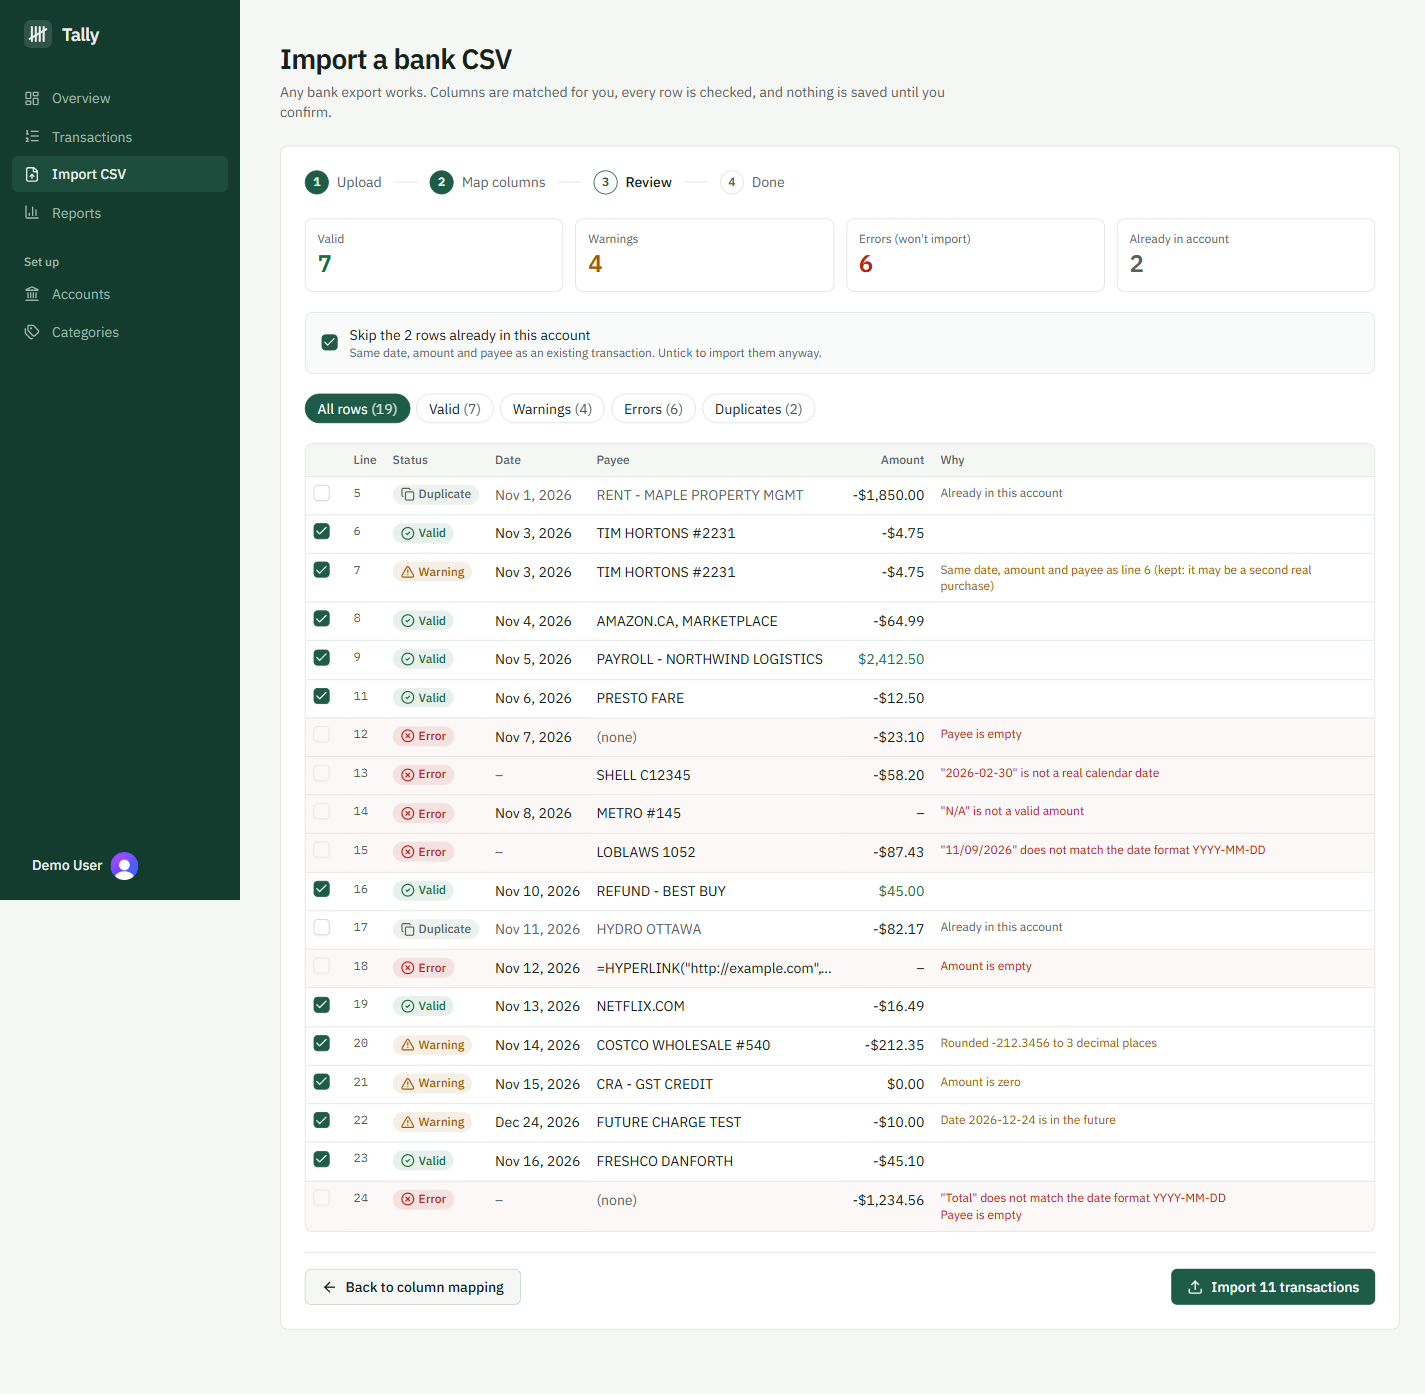
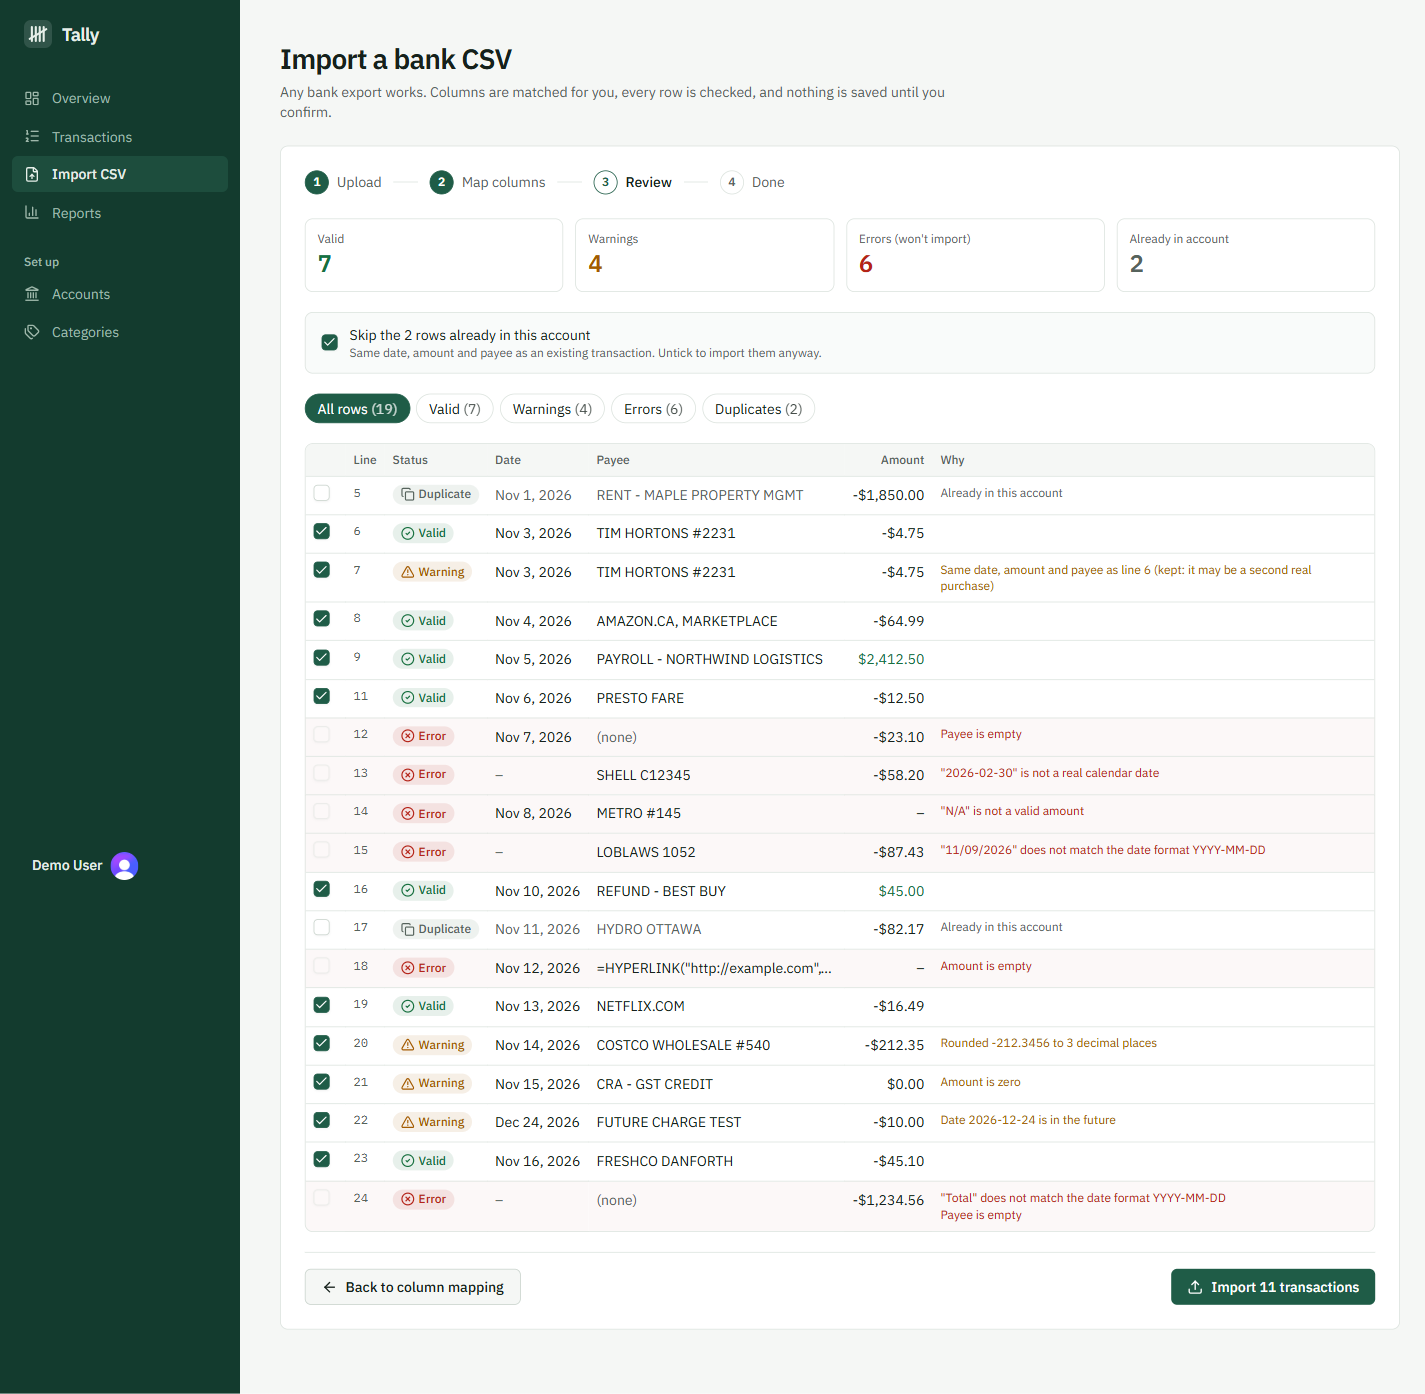
Replace the create-next-app README with real documentation
Covers what the app does, the features (each one exercised in the
browser against the seeded demo data), how the CSV import validates and
cleans data step by step, the sample files, the stack, a request-flow
diagram (UI -> Hono -> Drizzle -> Postgres), how to run, seed and test
it, what I'd improve next, and a credit to the tutorial the project
started from. Screenshots are from the production build with the demo
user's seeded data.

Changed region(s): [[0.0, 0.6478, 0.1853, 1.0]]

diff --git a/README.md b/README.md
@@ -1,55 +1,133 @@
-````md
-This is a Next.js project bootstrapped with create-next-app and built using **Bun**.
+# Tally
 
-## Getting Started
+A personal finance tracker built around one careful job: getting messy bank CSV exports into clean, checked transactions.
 
-### Prerequisites
-- Bun installed: https://bun.sh
+Every bank exports CSV differently: different columns, date formats, sign conventions, preambles and footers. Tally lets you map any export to its fields, shows every row as valid, warning or error with the exact reason, spots transactions you already have, and only saves what you confirm. On top of that data it gives you an overview and reports by category, month and payee, which you can export back to CSV.
 
-### Install dependencies
+![Overview](docs/screenshots/overview.png)
+
+## Features
+
+All of these were tested by hand in the browser against the seeded demo data, as well as by the automated tests listed below.
+
+- **CSV import with column mapping.** Upload any bank CSV. Columns are matched automatically from 70 common header names (e.g. "Transaction Date", "Description 1", "CAD$", "Withdrawals"), or from the cell contents when the file has no header row. You can change any mapping.
+- **Preview before import.** Every row gets a status (valid, warning, error, or already in the account) and a plain-language reason. Filter by status, and include or exclude rows before anything is saved.
+- **Validation and cleansing.** Six date formats with flexible separators, `$`, thousands separators, decimal commas, `(parentheses)`, trailing minus and DR/CR amounts, separate debit/credit columns, whitespace cleanup, blank lines and bank statement preambles skipped.
+- **Duplicate detection.** Rows that match a transaction already in the account (same date, amount and payee) are flagged and skipped by default.
+- **Import summary.** "X imported, Y skipped as duplicates, Z rejected", plus a downloadable CSV of every skipped row with its original line number and the reason.
+- **Reports.** Income, spending and net; income vs spending per month; spending by category with shares; top payees. Filter by date range and account, and export the filtered transactions to CSV.
+- **Overview dashboard** with change vs the previous period, a daily cash-flow chart and spending by category. A new user with no data sees an "Import your first bank CSV" screen instead of empty charts ([screenshot](docs/screenshots/empty-state.png)).
+- **Accounts, categories and transactions**: create, edit, delete and bulk delete, with search and sorting.
+- **Per-user data.** Every API query is scoped to the signed-in user, and writes check that the target account and category belong to them.
+- **Responsive and keyboard accessible.** Sidebar on desktop, menu on mobile, labelled controls, visible focus, a skip link, and status shown with icons and words rather than colour alone.
+
+| Import: column mapping | Import: preview with validation errors |
+| --- | --- |
+| ![Column mapping](docs/screenshots/import-mapping.png) | ![Preview](docs/screenshots/import-preview.png) |
+
+![Reports](docs/screenshots/reports.png)
+
+## How the CSV import validates and cleans data
+
+The import logic lives in [`lib/import`](lib/import) as plain TypeScript functions with no React and no database, so every rule is unit-tested.
+
+1. **Read the file** ([`csv.ts`](lib/import/csv.ts)). Strip a UTF-8 byte-order mark, detect the delimiter (comma, semicolon, tab or pipe), drop blank lines and count them. Skip statement preambles like `Statement for account ****4821` by finding the first row that reads like a header. If the first row is already data (it holds a date and an amount), treat the file as headerless. Keep each row's original line number for error messages.
+2. **Map columns** ([`columns.ts`](lib/import/columns.ts)). Match headers against 70 aliases, and never map "Balance" or "Account Number" as the amount. Without a header, infer columns from their contents: a column that is 80%+ dates is the date; two neighbouring number columns where each row fills exactly one of them are debit and credit.
+3. **Detect formats** ([`dates.ts`](lib/import/dates.ts), [`amounts.ts`](lib/import/amounts.ts)). Pick the date format that parses the most sample rows. If no day is above 12, `03/04/2026` could be March 4 or April 3, so the UI warns and asks you to confirm. Detect a decimal comma (`1.234,56`) from the samples.
+4. **Validate and cleanse each row** ([`validate.ts`](lib/import/validate.ts)):
+   - Dates: "does not match the date format" is reported separately from "is not a real calendar date" (`2026-02-30`). Future dates are a warning.
+   - Amounts are parsed **as text, never as floating point**, into integer milliunits ($12.34 → 12340). Rejections say why: `"N/A" is not a valid amount`, `looks like it uses a decimal comma`, or too large for the database column.
+   - Payee and notes are trimmed, inner whitespace is collapsed and the length is capped. An empty payee is an error.
+   - A row with any error is rejected; a row with only warnings can still be imported.
+5. **Find duplicates** ([`duplicates.ts`](lib/import/duplicates.ts)). The server returns the account's existing transactions in the file's date range. Rows match on date + amount + normalized payee (case, accents, punctuation and spacing ignored), **one-to-one**: if you already have one $4.75 coffee that day and the file has two, only one is a duplicate. Identical rows within the same file are flagged as a warning but kept, since they can be two real purchases.
+6. **Import and report** ([`report.ts`](lib/import/report.ts)). The server re-validates every row with Zod and checks account ownership, then inserts in one statement (all or nothing). Skipped rows can be downloaded as CSV with a `Line` and `Reason` column ahead of the original columns. Spreadsheet formulas are escaped so the file is safe to open in Excel, while negative amounts like `-12.50` are left alone.
+
+Try it with the files in [`public/samples`](public/samples), which you can also download from the import page:
+
+| File | What it exercises |
+| --- | --- |
+| `01-clean-iso-dates.csv` | The happy path |
+| `02-chequing-two-description-columns.csv` | M/D/YYYY dates, `Description 1/2`, a `CAD$` column, CRLF line endings |
+| `03-no-header-debit-credit.csv` | No header row, debit/credit columns, ambiguous dates |
+| `04-semicolon-decimal-comma.csv` | Semicolons, DD.MM.YYYY, `1.234,56` |
+| `05-messy-bank-export.csv` | BOM, preamble, blank lines, `$`, `(64.99)`, `12.50-`, DR/CR, empty payee, `2026-02-30`, `N/A`, a formula in a payee, a "Total" footer |
+
+## Tech stack
+
+Next.js 14 (App Router) · TypeScript · Hono (API) · Drizzle ORM · PostgreSQL on Neon · Clerk (auth) · TanStack Query · Tailwind CSS 4 with shadcn/ui and Radix · Recharts · Papa Parse · Zod · Bun (runtime, package manager, test runner) · PGlite and fast-check (tests) · GitHub Actions (CI)
+
+## Architecture
+
+```mermaid
+flowchart LR
+  UI["React page<br/>(TanStack Query hook)"] -->|"typed hono/client call"| Route["app/api/[[...route]]<br/>Next.js route handler"]
+  Route --> Hono["server/app.ts<br/>Hono app"]
+  Hono --> Auth["Clerk middleware +<br/>requireAuth (401)"]
+  Auth --> Zod["Zod validation (400)"]
+  Zod --> Handler["Route handler<br/>ownership checks (404)"]
+  Handler --> Drizzle["Drizzle query<br/>scoped to user_id"]
+  Drizzle --> PG[("Postgres<br/>(Neon)")]
+```
+
+- **UI → API.** Pages call hooks in `features/*/api`, which use Hono's typed client (`lib/hono.ts`). Request and response types come straight from the server routes, so a changed endpoint is a compile error in the UI.
+- **API.** `app/api/[[...route]]/route.ts` hands every `/api/*` request to the Hono app in `server/app.ts`. Each route module in `server/routes` runs `requireAuth` (Clerk session → `userId`, otherwise 401), validates params, query and body with shared Zod schemas from `lib/schemas.ts` (400 with the reason), then runs Drizzle queries that join through `accounts.user_id`. Writes that reference an account or category first check it belongs to the caller (`server/lib/ownership.ts`), and answer 404 otherwise.
+- **Data.** Amounts are integers in milliunits; transaction dates are Postgres `DATE` values handled as `yyyy-MM-dd` strings, so no time zone can shift a day. Schema and migrations live in `db/schema.ts` and `drizzle/`.
+- **Pages.** Dashboard pages are protected twice: by the middleware, and by `auth.protect()` in the dashboard layout.
+
+## Run it locally
+
+Prerequisites: [Bun](https://bun.sh), a Postgres database (a free [Neon](https://neon.tech) project works) and a [Clerk](https://clerk.com) application.
+
 ```bash
 bun install
-````
-
-### Run the development server
-
-```bash
-bun run dev
+cp .env.example .env.local      # then fill in the values below
+bun run db:migrate              # create the tables
+bun run dev                     # http://localhost:3000
 ```
 
-Open [http://localhost:3000](http://localhost:3000) in your browser to see the result.
+| Variable | What it is |
+| --- | --- |
+| `DATABASE_URL` | Postgres connection string |
+| `NEXT_PUBLIC_CLERK_PUBLISHABLE_KEY`, `CLERK_PUBLISHABLE_KEY` | Clerk publishable key |
+| `CLERK_SECRET_KEY` | Clerk secret key |
+| `NEXT_PUBLIC_CLERK_SIGN_IN_URL`, `NEXT_PUBLIC_CLERK_SIGN_UP_URL` | `/sign-in`, `/sign-up` |
+| `NEXT_PUBLIC_CLERK_SIGN_IN_FALLBACK_REDIRECT_URL`, `..._SIGN_UP_...` | `/` |
+| `NEXT_PUBLIC_APP_URL` | `http://localhost:3000` |
 
-You can start editing the page by modifying `app/page.tsx`. The page auto-updates as you edit the file.
-
-## Development Notes
-
-* Uses Next.js App Router
-* API routes are handled with Hono
-* Database access via Drizzle ORM
-* Authentication with Clerk
-* Amounts are stored in milliunits and converted on the frontend
-
-## Database Seeding (Development Only)
+**Demo data.** Sign up in the app, copy your Clerk user id (Clerk dashboard → Users, it looks like `user_2abc…`), then:
 
 ```bash
-bun run db:seed
+SEED_USER_ID=user_2abc... bun run db:seed
 ```
 
-This deletes existing data and inserts fresh seeded data. Do not run in production.
+This deletes and recreates **only that user's** accounts, categories and transactions: three accounts, ten categories and about four months of transactions. Random choices use a fixed seed, so runs on the same day produce the same data.
 
-## Fonts
+**Checks** (the same four steps CI runs on every push):
 
-This project uses `next/font` to automatically optimize and load **Geist**, the Vercel font family.
+```bash
+bun run typecheck
+bun run lint
+bun run test       # 214 tests
+bun run build
+```
 
-## Learn More
+The 214 tests break down as:
+- **122 import tests:** parsing, column detection, dates, amounts, cleansing, duplicates, the skipped-rows report, and the sample files end to end. They include property-based tests: any amount printed in six bank styles parses back exactly, and duplicate matching never reuses a transaction.
+- **45 API tests:** they run the real Hono app against an in-process Postgres (PGlite) with every migration applied. They cover that a user can't read or write another user's accounts, categories or transactions, and check the report numbers to the cent against hand-computed fixtures.
+- **47 unit tests:** dates, milliunit conversions and report helpers.
 
-* Next.js Documentation: [https://nextjs.org/docs](https://nextjs.org/docs)
-* Bun Documentation: [https://bun.sh/docs](https://bun.sh/docs)
+Tests run in the America/Toronto time zone, so an off-by-one-day UTC bug fails them.
 
-## Deploy on Vercel
+## What I'd improve next
 
-Deploy using the Vercel Platform.
+- **Categories during import:** map a category column, or remember rules by payee ("TIM HORTONS → Dining out").
+- **Saved import profiles** per bank, so the second import from the same bank needs no mapping.
+- **Transfers between your own accounts** are currently counted as income and spending. Link both sides and exclude them from reports.
+- **Larger amounts and more currencies:** amounts are 32-bit integers (max $2,147,483.647 per transaction) in a single currency (CAD).
+- **Parse on the server too**, for very large files and for imports through an API rather than the browser. Today the browser parses the file; the server re-validates every row and checks ownership.
+- **Browser tests in CI** (Playwright) for the import flow, which is currently verified by hand.
+- Dark mode, and dropping the unused `plaid_id` columns.
 
-Make sure to configure the required environment variables
-(from `.env.local`) in the Vercel dashboard before deploying.
+## Credits
 
+The starting point was the stack and structure of Code With Antonio's "Finance SaaS Platform" tutorial (Next.js, Hono, Drizzle, Clerk). The CSV import pipeline, reports, data validation, authorization fixes and tests, the date-handling rework, the seed script and the visual design were added on top of it.
